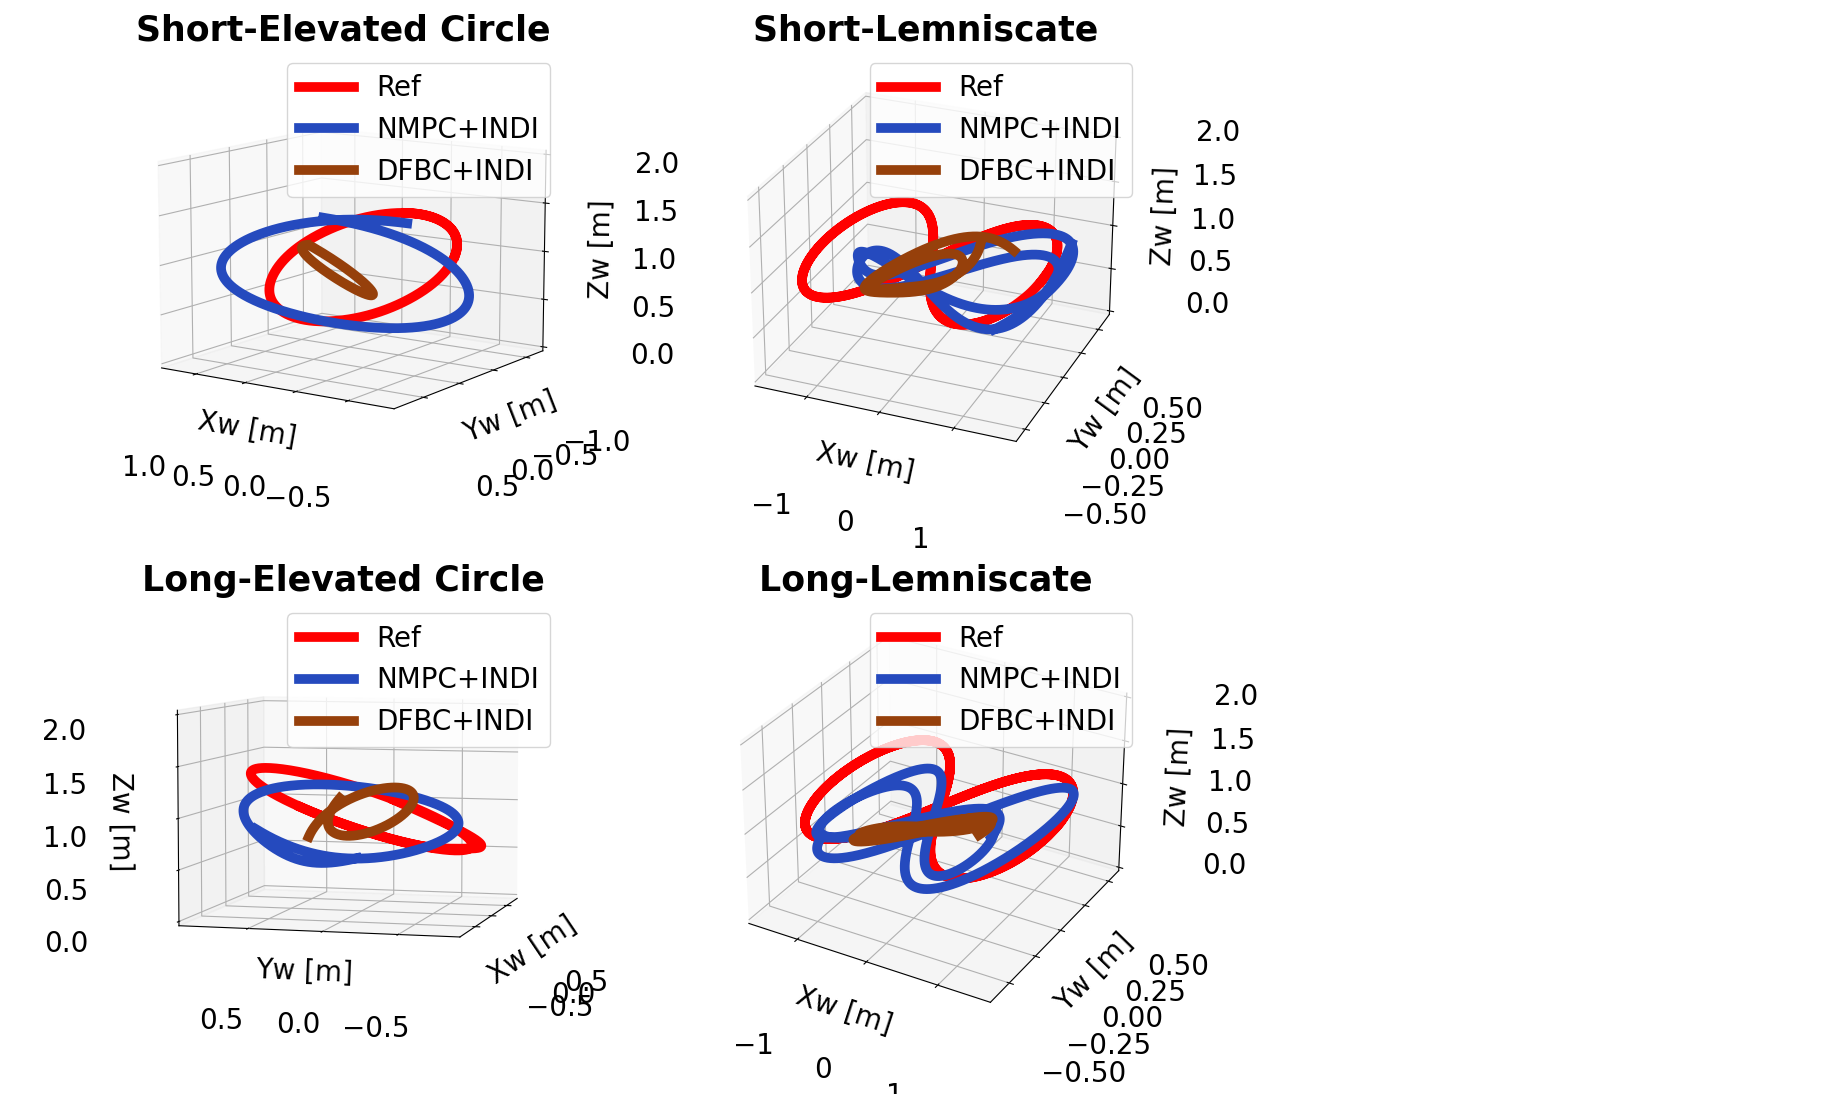
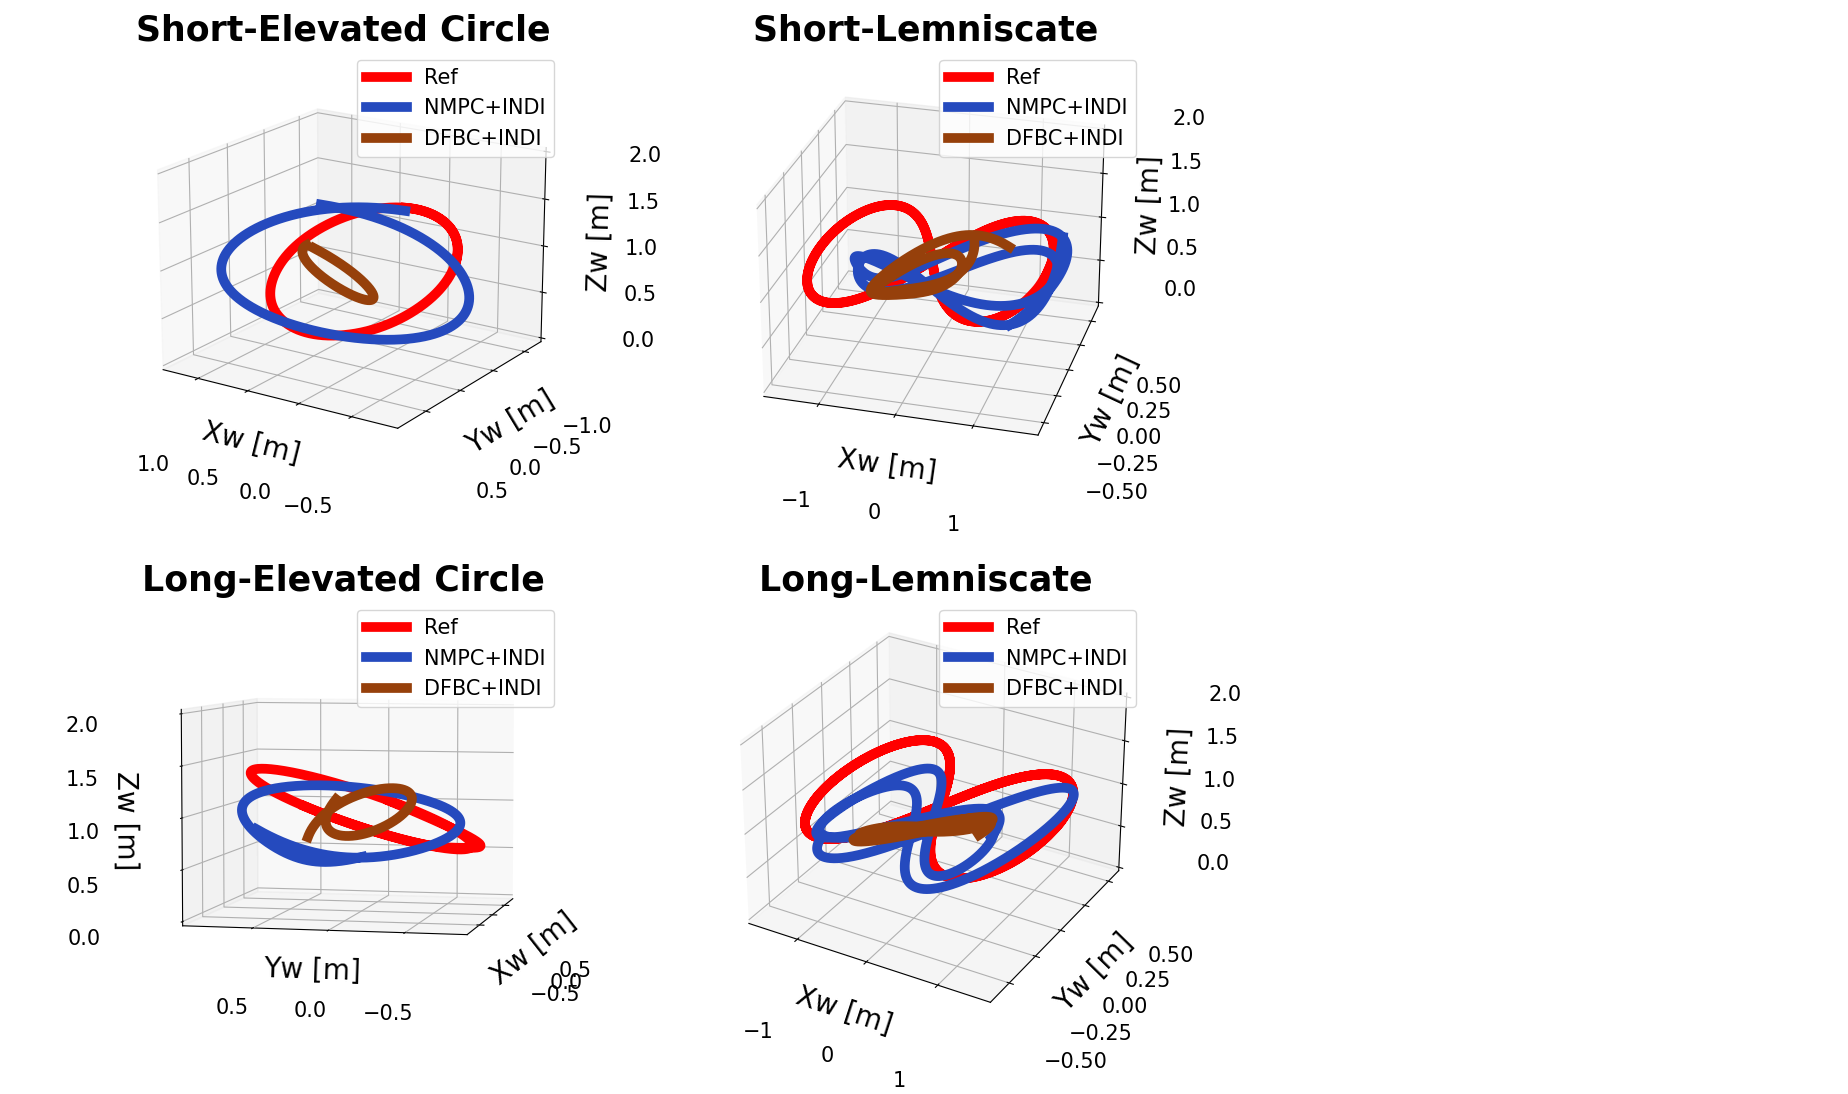
lem_ele

diff --git a/OCP_MPC/paper_plots/lem_ele_reduced_3D_graphs_plotter.py b/OCP_MPC/paper_plots/lem_ele_reduced_3D_graphs_plotter.py
@@ -88,13 +88,13 @@ for i in range(rows):
         graphs[i][a].set_ylabel('Yw [m]', fontsize=20)
         graphs[i][a].set_zlabel('Zw [m]', fontsize=20)
         # legend        
-        graphs[i][a].legend(loc='upper right', fontsize=20) # font used to be 23
+        graphs[i][a].legend(loc='upper right', fontsize=15) # font used to be 23
         # add title
         graphs[i][a].set_title(traj_label, fontsize=25, fontweight='bold') # font used to be 35
-        graphs[i][a].tick_params(axis='both', labelsize=20)
-        graphs[i][a].tick_params(axis='x', pad=40)
-        graphs[i][a].tick_params(axis='y', pad=40)
-        graphs[i][a].tick_params(axis='z', pad=40)   
+        graphs[i][a].tick_params(axis='both', labelsize=15)
+        graphs[i][a].tick_params(axis='x', pad=35)
+        graphs[i][a].tick_params(axis='y', pad=35)
+        graphs[i][a].tick_params(axis='z', pad=35)   
 
         
 #plt.savefig(title+'.pdf')   
